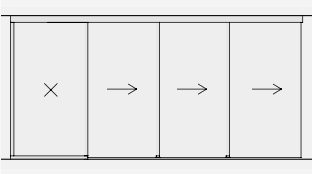
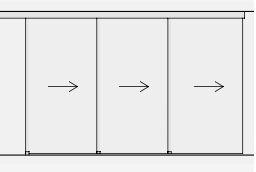
fix: kit image always shows, accesorii sub el + recopy 3c poze

Changed region(s): [[0.0, 0.0581, 1.0, 0.9302]]

diff --git a/src/SlidingDoorConfiguratorPage.tsx b/src/SlidingDoorConfiguratorPage.tsx
@@ -328,10 +328,8 @@ export default function SlidingDoorConfiguratorPage() {
           </PreviewBox>
           <div className="glass-card" style={{ borderRadius: 20, padding: "16px" }}>
             <div style={{ color: "rgba(200,169,110,0.6)", fontSize: "0.72rem", marginBottom: 8 }}>Detaliu selecție</div>
-            {(inclManer && !inclInc) ? <img src="/maner-msc7.png" alt="Mâner MSC7" style={{ width: "100%", borderRadius: 12, filter: "invert(0.92)" }} />
-            : (inclInc && !inclManer) ? <img src="/incuietoare-dqs15.png" alt="Încuietoare DQS15" style={{ width: "100%", borderRadius: 12, filter: "invert(0.92)" }} />
-            : isCanatCuRama ? (<img src="/canat-cu-rama.png" alt="Canat cu Ramă" style={{ width: "100%", borderRadius: 12, filter: "invert(0.92)" }} />)
-            : (<img src={isInvizibila ? "/feronerie-invizibila.png" : carucioare === "la-vedere-inox" ? "/culisante-la-vedere-inox.png"
+            {isCanatCuRama ? <img src="/canat-cu-rama.png" alt="Canat cu Ramă" style={{ width: "100%", borderRadius: 12, filter: "invert(0.92)" }} />
+            : <img src={isInvizibila ? "/feronerie-invizibila.png" : carucioare === "la-vedere-inox" ? "/culisante-la-vedere-inox.png"
                 : kit === "1c-920" || kit === "1c-1420" ? "/culisante-1canat.png"
                 : kit === "2c-1940" ? "/culisante-dubla.png"
                 : kit?.includes("fix-mobil") ? "/culisante-fix-mobil.png"
@@ -340,9 +338,9 @@ export default function SlidingDoorConfiguratorPage() {
                 : kit?.includes("2c-1fix") ? "/culisante-2c-1fix.png"
                 : kit?.includes("3c-buzunar") ? "/culisante-3c-buzunar.png"
                 : kit?.includes("3c-1fix") ? "/culisante-3c-1fix.png"
-                : "/usi-culisante.png"}
-                alt="Detaliu" style={{ width: "100%", borderRadius: 12, filter: "invert(0.92)" }} />)
-            }
+                : "/usi-culisante.png"} alt="Detaliu" style={{ width: "100%", borderRadius: 12, filter: "invert(0.92)" }} />}
+            {inclManer && <img src="/maner-msc7.png" alt="Mâner MSC7" style={{ width: "100%", borderRadius: 12, filter: "invert(0.92)", marginTop: 8 }} />}
+            {inclInc && <img src="/incuietoare-dqs15.png" alt="Încuietoare DQS15" style={{ width: "100%", borderRadius: 12, filter: "invert(0.92)", marginTop: 8 }} />}
             {!isCanatCuRama && (options?.maner || options?.incuietoare) && (
               <div style={{ display: "flex", gap: 8, marginTop: 10 }}>
                 {options?.maner && <img src="/maner-msc7.png" alt="Mâner" style={{ width: 56, height: 34, objectFit: "contain", borderRadius: 6, filter: "invert(0.92)", opacity: inclManer ? 1 : 0.35, border: inclManer ? "1px solid #c8a96e" : "none" }} />}
